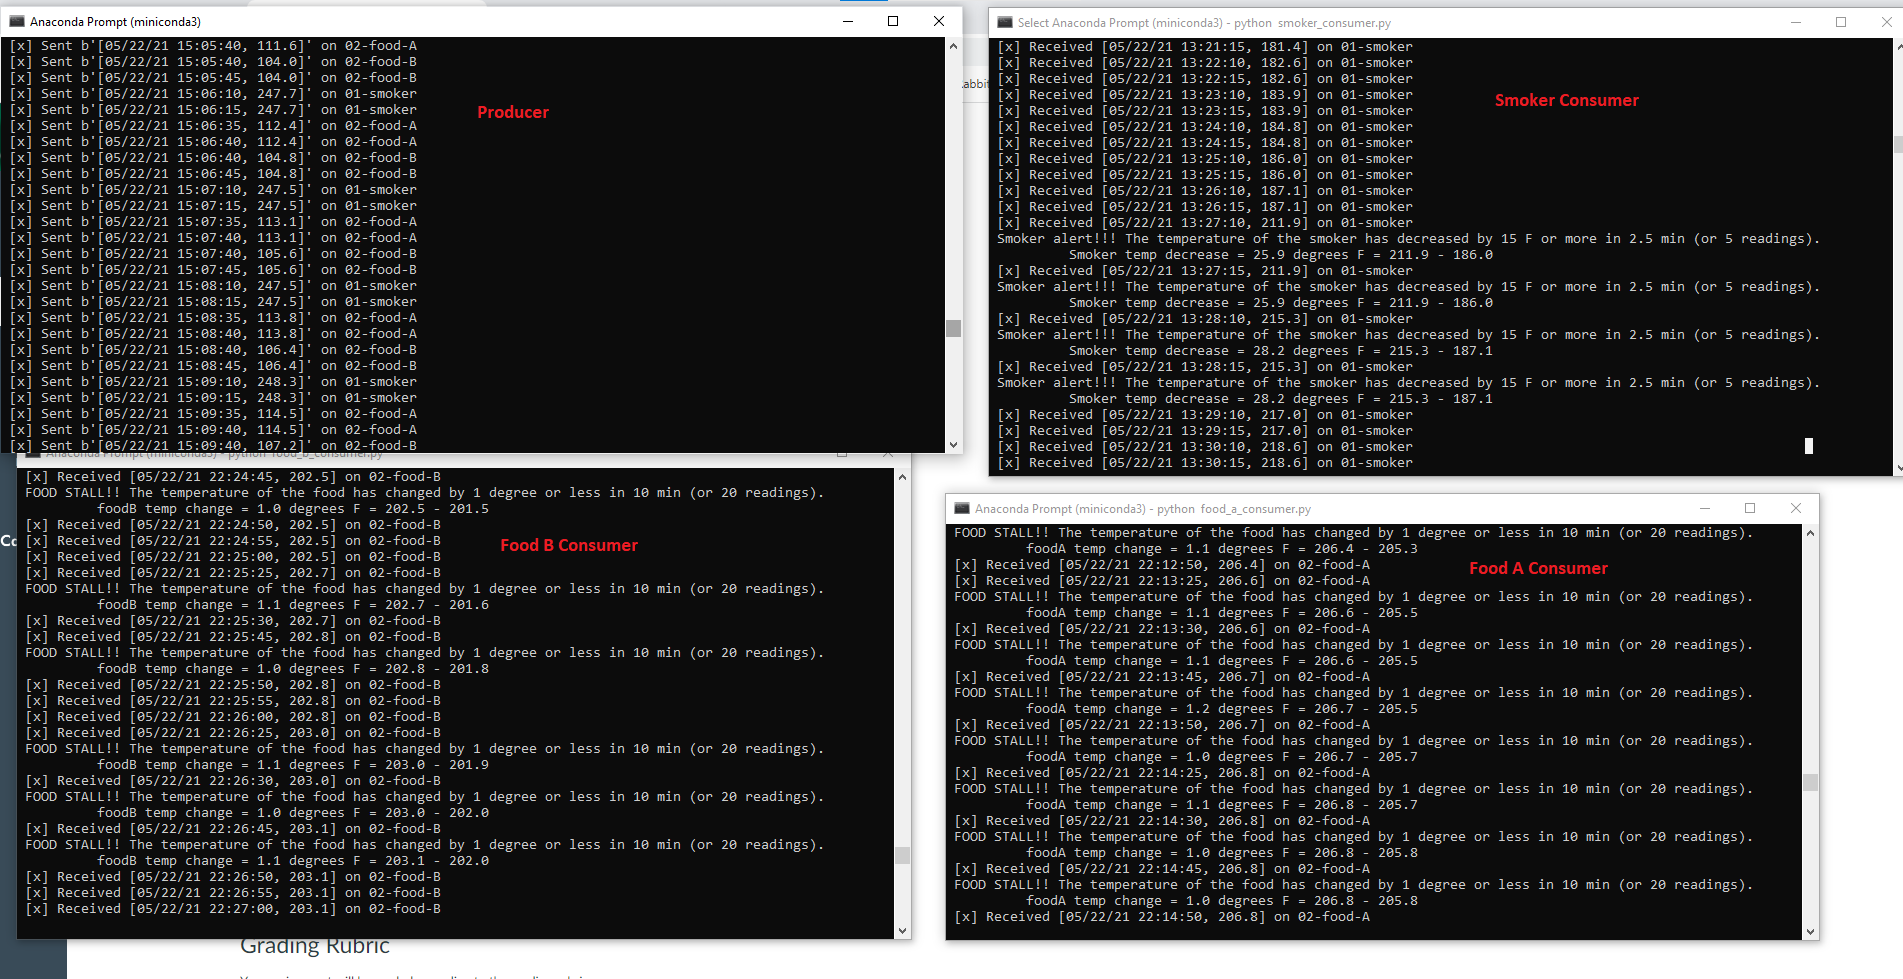
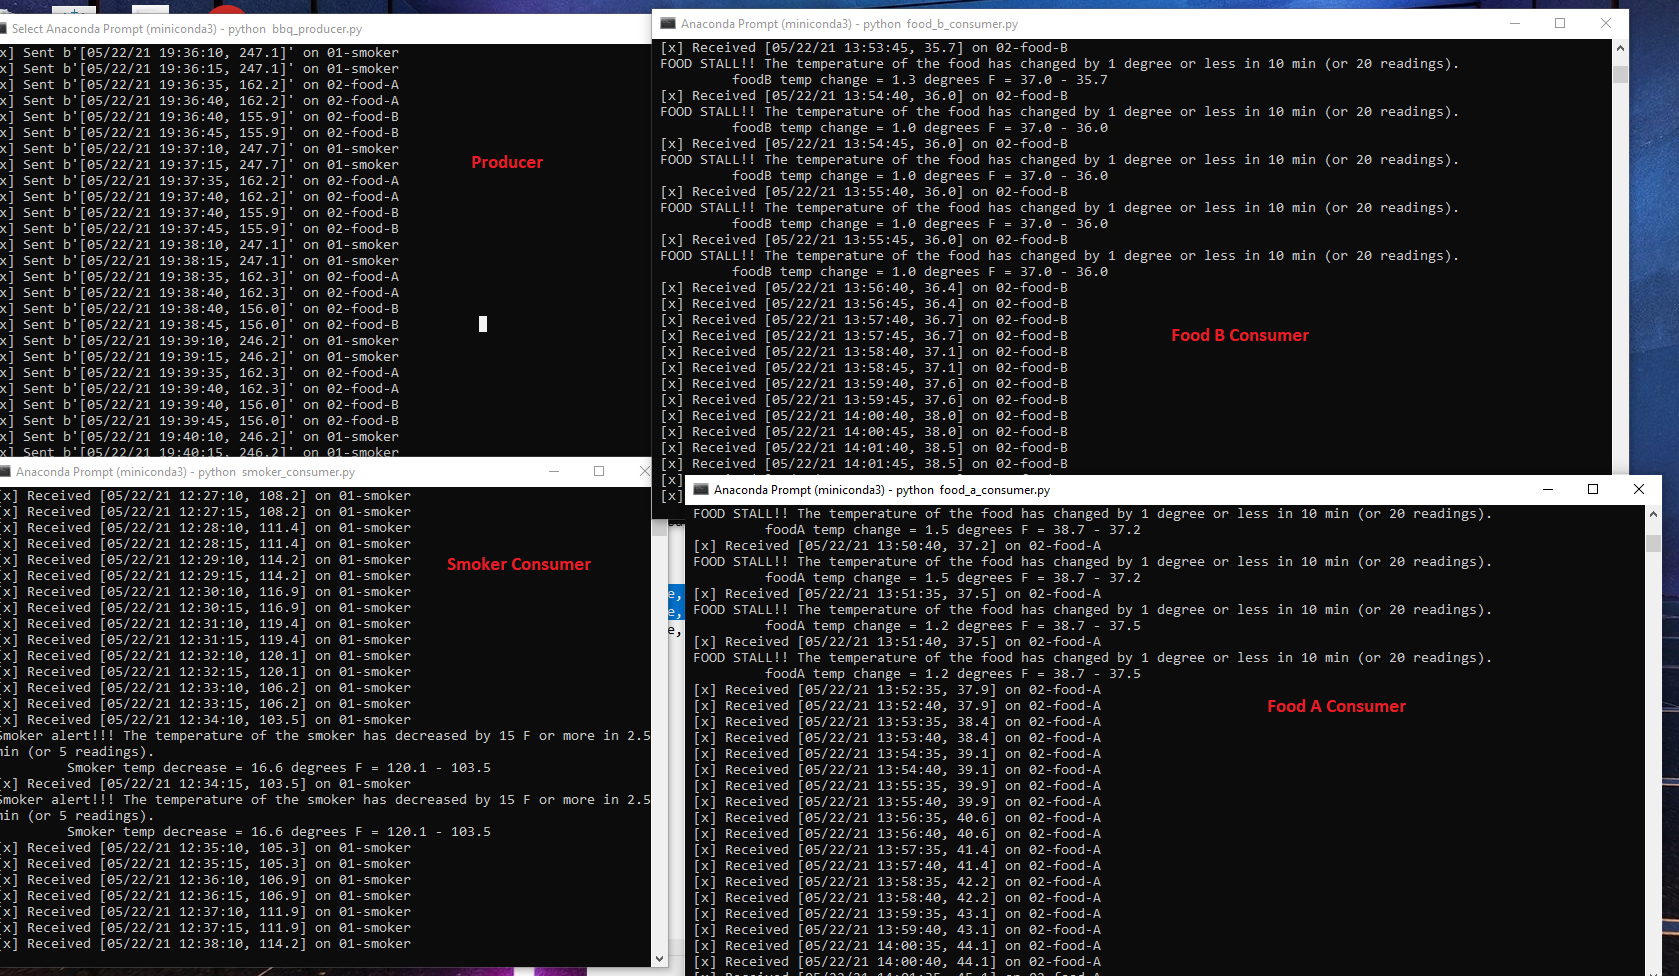
code_updates

diff --git a/food_a_consumer.py b/food_a_consumer.py
@@ -79,10 +79,10 @@ def food_A_callback(ch, method, properties, body):
     
     # defining foodA temp change and calculating the difference
     # rounding difference to 1 decimal point
-    food_a_temp_change = round(food_a_now_temp - food_a_temp_1, 1)
+    food_a_temp_change = round(food_a_temp_1 - food_a_now_temp, 1)
     # defining food A alert
     if food_a_temp_change >= food_stall_alert_limit:
-        print(f" FOOD STALL!! The temperature of the food has changed by 1 degree or less in 10 min (or 20 readings). \n          foodA temp change = {food_a_temp_change} degrees F = {food_a_now_temp} - {food_a_temp_1}")
+        print(f" FOOD STALL!! The temperature of the food has changed by 1 degree or less in 10 min (or 20 readings). \n          foodA temp change = {food_a_temp_change} degrees F = {food_a_temp_1} - {food_a_now_temp}")
        
 
 # define a main function to run the program

diff --git a/food_b_consumer.py b/food_b_consumer.py
@@ -78,10 +78,10 @@ def food_B_callback(ch, method, properties, body):
     
     # defining foodB temp change and calculating the difference
     # rounding difference to 1 decimal point
-    food_b_temp_change = round(food_b_now_temp - food_b_temp_1, 1)
+    food_b_temp_change = round(food_b_temp_1 - food_b_now_temp, 1)
     # defining foodB alert
     if food_b_temp_change >= food_stall_alert_limit:
-        print(f" FOOD STALL!! The temperature of the food has changed by 1 degree or less in 10 min (or 20 readings). \n          foodB temp change = {food_b_temp_change} degrees F = {food_b_now_temp} - {food_b_temp_1}")
+        print(f" FOOD STALL!! The temperature of the food has changed by 1 degree or less in 10 min (or 20 readings). \n          foodB temp change = {food_b_temp_change} degrees F = {food_b_temp_1} - {food_b_now_temp}")
        
 
 # define a main function to run the program

diff --git a/smoker_consumer.py b/smoker_consumer.py
@@ -82,10 +82,10 @@ def smoker_callback(ch, method, properties, body):
     
     # defining smoker temp change and calculating the difference
     # rounding difference to 1 decimal point
-    smoker_temp_change = round(smoker_now_temp - smoker_temp_1, 1)
+    smoker_temp_change = round(smoker_temp_1 - smoker_now_temp, 1)
     # defining smoker alert
     if smoker_temp_change >= smoker_alert_limit:
-        print(f" Smoker alert!!! The temperature of the smoker has decreased by 15 F or more in 2.5 min (or 5 readings). \n          Smoker temp decrease = {smoker_temp_change} degrees F = {smoker_now_temp} - {smoker_temp_1}")
+        print(f" Smoker alert!!! The temperature of the smoker has decreased by 15 F or more in 2.5 min (or 5 readings). \n          Smoker temp decrease = {smoker_temp_change} degrees F = {smoker_temp_1} - {smoker_now_temp}")
         
     
 

diff --git a/bbq_producer.py b/bbq_producer.py
@@ -125,7 +125,7 @@ def get_data_from_csv(file):
        
         
     # sleep in seconds
-        time.sleep(30)
+        #time.sleep(30)
 
 ###########################################################################################
             
